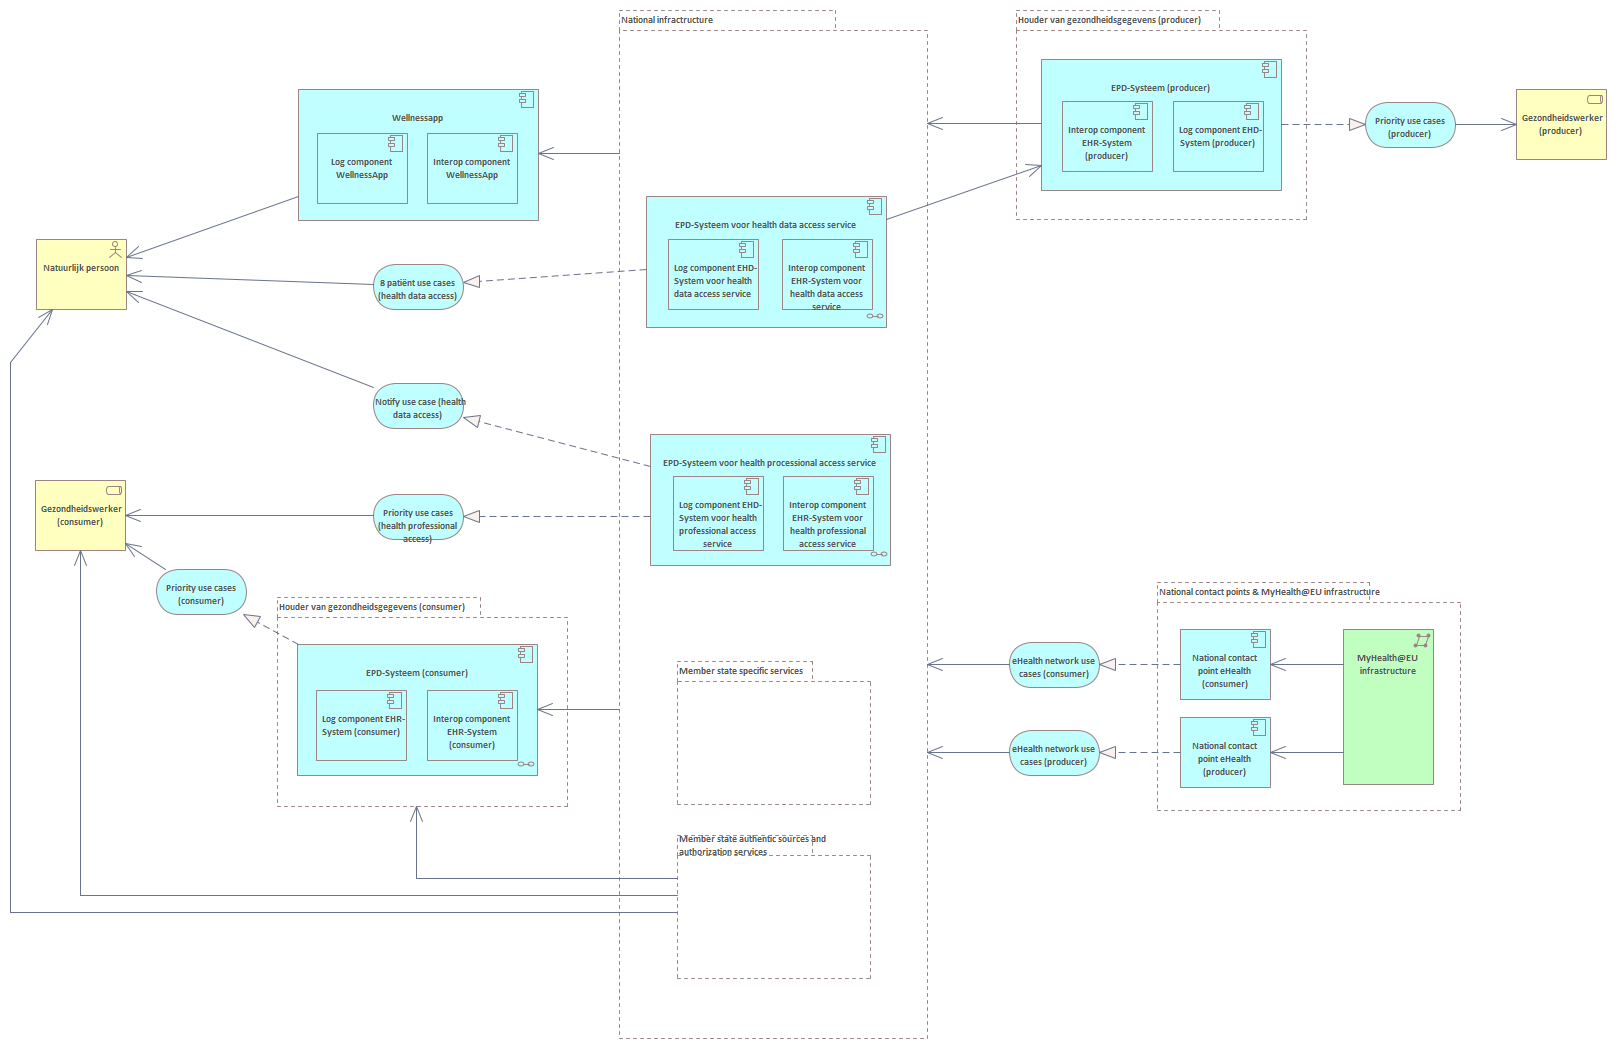
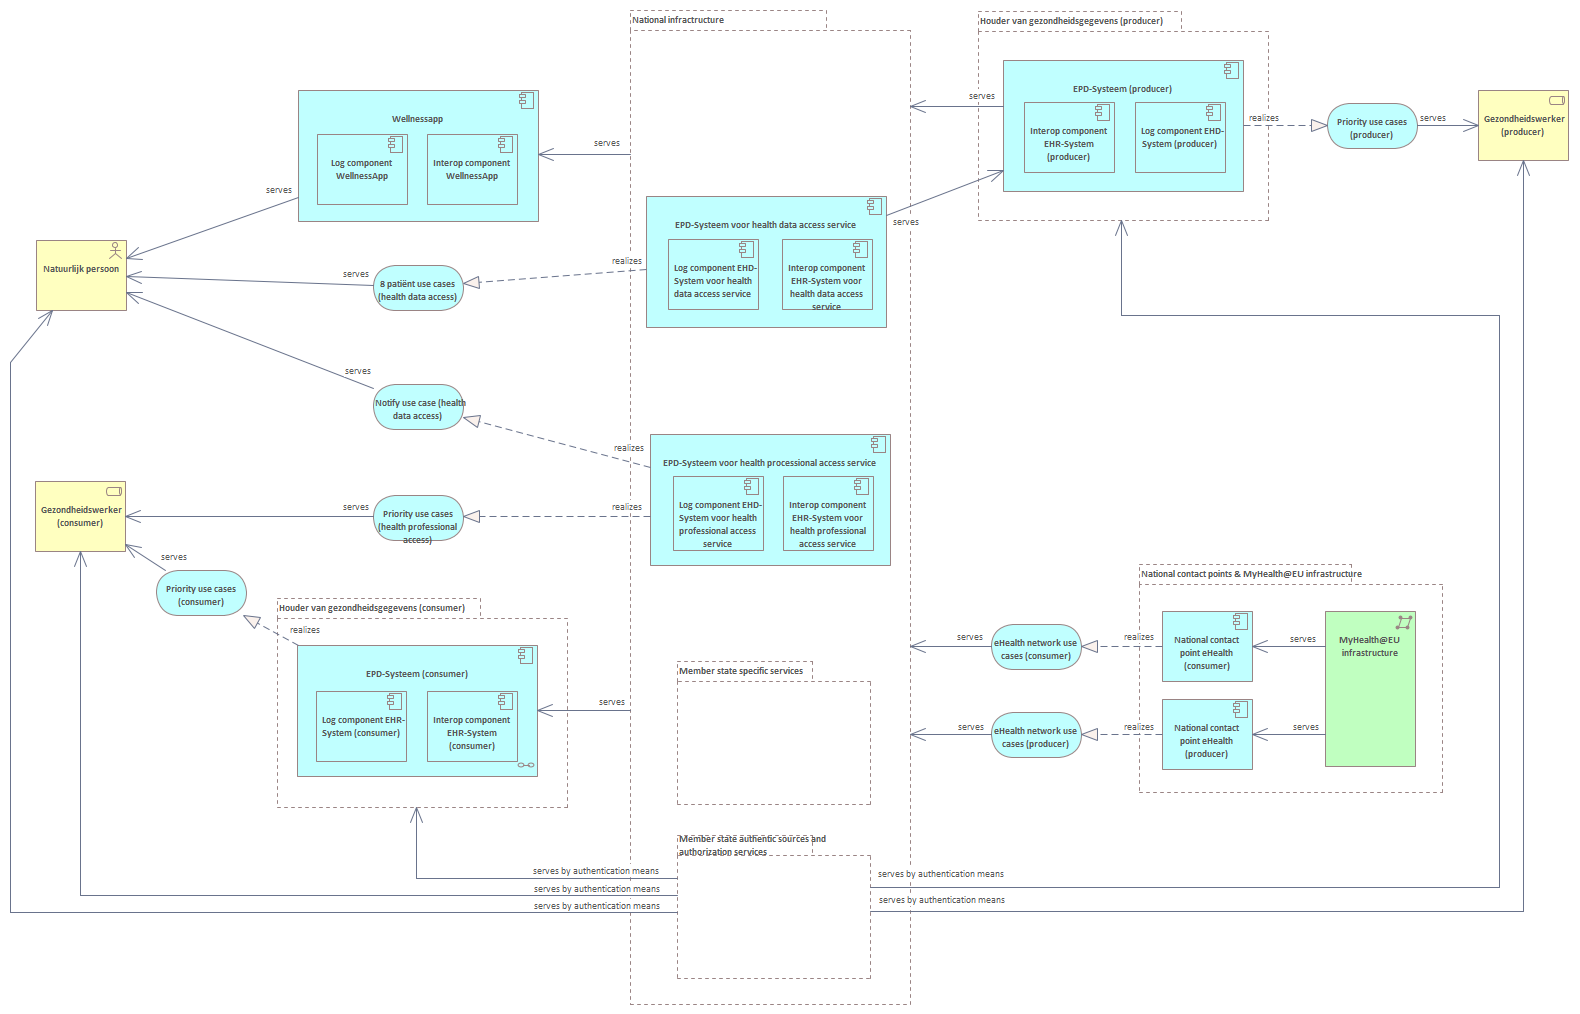
update

diff --git a/docs/EARoot/EA1/EA1.htm b/docs/EARoot/EA1/EA1.htm
@@ -109,40 +109,40 @@
 <img src="EA2.png" usemap="#EA2" border="0" />
 
 <MAP NAME="EA2">
-<area shape="rect" coords="1173,101,1263,171" href="../EA5/EA4/EA1/EA276.htm" target="_self">
-<area shape="rect" coords="1062,101,1152,171" href="../EA5/EA4/EA1/EA281.htm" target="_self">
+<area shape="rect" coords="1135,102,1225,172" href="../EA5/EA4/EA1/EA276.htm" target="_self">
+<area shape="rect" coords="1024,102,1114,172" href="../EA5/EA4/EA1/EA281.htm" target="_self">
 <area shape="rect" coords="782,239,872,309" href="../EA5/EA4/EA1/EA282.htm" target="_self">
 <area shape="rect" coords="668,239,758,309" href="../EA5/EA4/EA1/EA277.htm" target="_self">
 <area shape="rect" coords="783,476,873,550" href="../EA5/EA4/EA1/EA283.htm" target="_self">
 <area shape="rect" coords="673,476,763,550" href="../EA5/EA4/EA1/EA278.htm" target="_self">
-<area shape="rect" coords="427,690,517,760" href="../EA5/EA4/EA1/EA280.htm" target="_self">
-<area shape="rect" coords="316,690,406,760" href="../EA5/EA4/EA1/EA279.htm" target="_self">
-<area shape="rect" coords="427,133,517,203" href="../EA5/EA4/EA1/EA289.htm" target="_self">
-<area shape="rect" coords="317,133,407,203" href="../EA5/EA4/EA1/EA288.htm" target="_self">
-<area shape="rect" coords="646,196,886,327" href="../EA5/EA4/EA1/EA244.htm" target="_self">
-<area shape="rect" coords="650,434,890,565" href="../EA5/EA4/EA1/EA244.htm" target="_self">
-<area shape="rect" coords="1343,629,1433,784" href="../EA5/EA4/EA10/EA356.htm" target="_self">
-<area shape="rect" coords="1180,717,1270,787" href="../EA5/EA4/EA10/EA365.htm" target="_self">
-<area shape="rect" coords="1180,629,1270,699" href="../EA5/EA4/EA10/EA364.htm" target="_self">
-<area shape="rect" coords="1009,730,1099,775" href="../EA5/EA4/EA10/EA355.htm" target="_self">
-<area shape="rect" coords="1009,642,1099,687" href="../EA5/EA4/EA10/EA354.htm" target="_self">
-<area shape="rect" coords="1516,89,1606,159" href="../EA5/EA4/EA3/EA314.htm" target="_self">
-<area shape="rect" coords="1365,102,1455,147" href="../EA5/EA4/EA10/EA361.htm" target="_self">
-<area shape="rect" coords="1041,59,1281,190" href="../EA5/EA4/EA1/EA285.htm" target="_self">
-<area shape="rect" coords="298,89,538,220" href="../EA5/EA4/EA1/EA250.htm" target="_self">
-<area shape="rect" coords="35,480,125,550" href="../EA5/EA4/EA3/EA313.htm" target="_self">
-<area shape="rect" coords="297,644,537,775" href="../EA5/EA4/EA1/EA244.htm" target="_self">
-<area shape="rect" coords="156,569,246,614" href="../EA5/EA4/EA10/EA359.htm" target="_self">
-<area shape="rect" coords="373,494,463,539" href="../EA5/EA4/EA10/EA360.htm" target="_self">
-<area shape="rect" coords="373,383,463,428" href="../EA5/EA4/EA10/EA358.htm" target="_self">
-<area shape="rect" coords="373,264,463,309" href="../EA5/EA4/EA10/EA353.htm" target="_self">
-<area shape="rect" coords="36,239,126,309" href="../EA5/EA4/EA10/EA362.htm" target="_self">
+<area shape="rect" coords="427,691,517,761" href="../EA5/EA4/EA1/EA280.htm" target="_self">
+<area shape="rect" coords="316,691,406,761" href="../EA5/EA4/EA1/EA279.htm" target="_self">
+<area shape="rect" coords="427,134,517,204" href="../EA5/EA4/EA1/EA289.htm" target="_self">
+<area shape="rect" coords="317,134,407,204" href="../EA5/EA4/EA1/EA288.htm" target="_self">
+<area shape="rect" coords="646,196,886,327" href="../EA5/EA4/EA1/EA286.htm" target="_self">
+<area shape="rect" coords="650,434,890,565" href="../EA5/EA4/EA1/EA287.htm" target="_self">
+<area shape="rect" coords="1325,611,1415,766" href="../EA5/EA4/EA10/EA356.htm" target="_self">
+<area shape="rect" coords="1162,699,1252,769" href="../EA5/EA4/EA10/EA365.htm" target="_self">
+<area shape="rect" coords="1162,611,1252,681" href="../EA5/EA4/EA10/EA364.htm" target="_self">
+<area shape="rect" coords="991,712,1081,757" href="../EA5/EA4/EA10/EA355.htm" target="_self">
+<area shape="rect" coords="991,624,1081,669" href="../EA5/EA4/EA10/EA354.htm" target="_self">
+<area shape="rect" coords="1478,90,1568,160" href="../EA5/EA4/EA3/EA314.htm" target="_self">
+<area shape="rect" coords="1327,103,1417,148" href="../EA5/EA4/EA10/EA361.htm" target="_self">
+<area shape="rect" coords="1003,60,1243,191" href="../EA5/EA4/EA1/EA285.htm" target="_self">
+<area shape="rect" coords="298,90,538,221" href="../EA5/EA4/EA1/EA250.htm" target="_self">
+<area shape="rect" coords="35,481,125,551" href="../EA5/EA4/EA3/EA313.htm" target="_self">
+<area shape="rect" coords="297,645,537,776" href="../EA5/EA4/EA1/EA244.htm" target="_self">
+<area shape="rect" coords="156,570,246,615" href="../EA5/EA4/EA10/EA359.htm" target="_self">
+<area shape="rect" coords="373,495,463,540" href="../EA5/EA4/EA10/EA360.htm" target="_self">
+<area shape="rect" coords="373,384,463,429" href="../EA5/EA4/EA10/EA358.htm" target="_self">
+<area shape="rect" coords="373,265,463,310" href="../EA5/EA4/EA10/EA353.htm" target="_self">
+<area shape="rect" coords="36,240,126,310" href="../EA5/EA4/EA10/EA362.htm" target="_self">
 <area shape="rect" coords="677,661,870,804" href="EA7.htm" target="_self">
 <area shape="rect" coords="677,835,870,978" href="EA6.htm" target="_self">
-<area shape="rect" coords="277,597,567,806" href="EA4.htm" target="_self">
-<area shape="rect" coords="619,10,927,1038" href="EA9.htm" target="_self">
-<area shape="rect" coords="1016,10,1306,219" href="EA5.htm" target="_self">
-<area shape="rect" coords="1157,582,1460,810" href="EA8.htm" target="_self">
+<area shape="rect" coords="277,598,567,807" href="EA4.htm" target="_self">
+<area shape="rect" coords="630,10,910,1004" href="EA9.htm" target="_self">
+<area shape="rect" coords="978,11,1268,220" href="EA5.htm" target="_self">
+<area shape="rect" coords="1139,564,1442,792" href="EA8.htm" target="_self">
 </MAP>
  </div>
 	<!-- <div class="ObjectTitle">EHDS : Application Layer diagram</div> -->
@@ -154,7 +154,7 @@
 		</tr>
 		<tr>
 			<td width="15%" class="ObjectDetailsTopic">Modified:</td>
-			<td width="85%" class="ObjectDetailsValue">17-12-2025 09:08:57</td>
+			<td width="85%" class="ObjectDetailsValue">17-12-2025 09:39:17</td>
 		</tr>
 		<tr style="padding-top: 10px;">
 			<td width="15%" class="ObjectDetailsTopic"><button onclick="switchProjectProperties()"><img src="../../images/plus03.gif" align="absmiddle" id="proj" /></button>Project:</td>
@@ -184,7 +184,7 @@
 		</tr>
 		<tr>
 			<td width="15%" class="ObjectDetailsTopic">Aangepast:</td>
-			<td width="85%" class="ObjectDetailsValue">17-12-2025 09:08:57</td>
+			<td width="85%" class="ObjectDetailsValue">17-12-2025 09:39:17</td>
 		</tr>
 		<tr>
 			<td width="15%" class="ObjectDetailsTopic">Versie:</td>

diff --git a/docs/EARoot/EA1/EA5.htm b/docs/EARoot/EA1/EA5.htm
@@ -208,6 +208,7 @@
  -->	<div class="TableGroup" id="TableGroup">
 		<ul class="ItemTitle">
 			<li onClick="toggleItem('AssociationsTo');" id="AssociationsToTitle">Associations To</li>
+			<li onClick="toggleItem('AssociationsFrom');" id="AssociationsFromTitle">Associations From</li>
 			<li onClick="toggleItem('CustomProperties');" id="CustomPropertiesTitle">Advanced</li>
 		</ul>
 		<div class="ItemBody" id="AssociationsToTable">
@@ -230,6 +231,30 @@
 					</td>
 					<td width="25%" class="TableRow" valign="top">
 						<a href="../EA5/EA4/EA1/EA285.htm">«ArchiMate_ApplicationComponent» EPD-Systeem (producer)</a>
+					</td>
+				</tr>
+			</table>
+		</div>
+		<div class="ItemBody" id="AssociationsFromTable">
+			<table class="Table ea_table">
+				<tr>
+					<td width="45%" class="TableHeading">Notities</td>
+					<td width="25%" class="TableHeading">Type relatie</td>
+					<td width="5%" class="TableHeading">Richting</td>
+					<td width="25%" class="TableHeading">Element</td>
+				</tr>
+				<tr>
+					<td width="45%" class="TableRow" valign="top">
+						&nbsp;
+					</td>
+					<td width="25%" class="TableRow" valign="top">
+						«ArchiMate_Serving» 
+					</td>
+					<td width="5%" class="TableRow" valign="top">
+						From
+					</td>
+					<td width="25%" class="TableRow" valign="top">
+						<a href="EA6.htm">«ArchiMate_Grouping» Member state authentic sources and authorization services</a>
 					</td>
 				</tr>
 			</table>

diff --git a/docs/EARoot/EA1/EA6.htm b/docs/EARoot/EA1/EA6.htm
@@ -243,6 +243,19 @@
 						To
 					</td>
 					<td width="25%" class="TableRow" valign="top">
+						<a href="../EA5/EA4/EA3/EA314.htm">«ArchiMate_BusinessRole» Gezondheidswerker (producer)</a>
+					</td>
+				</tr>				<tr>
+					<td width="45%" class="TableRow" valign="top">
+						&nbsp;
+					</td>
+					<td width="25%" class="TableRow" valign="top">
+						«ArchiMate_Serving» 
+					</td>
+					<td width="5%" class="TableRow" valign="top">
+						To
+					</td>
+					<td width="25%" class="TableRow" valign="top">
 						<a href="../EA5/EA4/EA10/EA362.htm">«ArchiMate_BusinessActor» Natuurlijk persoon</a>
 					</td>
 				</tr>				<tr>
@@ -257,6 +270,19 @@
 					</td>
 					<td width="25%" class="TableRow" valign="top">
 						<a href="../EA5/EA4/EA3/EA313.htm">«ArchiMate_BusinessRole» Gezondheidswerker (consumer)</a>
+					</td>
+				</tr>				<tr>
+					<td width="45%" class="TableRow" valign="top">
+						&nbsp;
+					</td>
+					<td width="25%" class="TableRow" valign="top">
+						«ArchiMate_Serving» 
+					</td>
+					<td width="5%" class="TableRow" valign="top">
+						To
+					</td>
+					<td width="25%" class="TableRow" valign="top">
+						<a href="EA5.htm">«ArchiMate_Grouping» Houder van gezondheidsgegevens (producer)</a>
 					</td>
 				</tr>
 			</table>

diff --git a/docs/EARoot/EA5/EA4/EA3/EA314.htm b/docs/EARoot/EA5/EA4/EA3/EA314.htm
@@ -230,6 +230,19 @@
 						From
 					</td>
 					<td width="25%" class="TableRow" valign="top">
+						<a href="../../../EA1/EA6.htm">«ArchiMate_Grouping» Member state authentic sources and authorization services</a>
+					</td>
+				</tr>				<tr>
+					<td width="45%" class="TableRow" valign="top">
+						&nbsp;
+					</td>
+					<td width="25%" class="TableRow" valign="top">
+						«ArchiMate_Serving» 
+					</td>
+					<td width="5%" class="TableRow" valign="top">
+						From
+					</td>
+					<td width="25%" class="TableRow" valign="top">
 						<a href="../EA10/EA361.htm">«ArchiMate_ApplicationService» Priority use cases (producer)</a>
 					</td>
 				</tr>

diff --git a/docs/EARoot/EA5/EA4/EA1/EA244.htm b/docs/EARoot/EA5/EA4/EA1/EA244.htm
@@ -113,8 +113,8 @@
 <img src="EA245.png" usemap="#EA245" border="0" />
 
 <MAP NAME="EA245">
-<area shape="rect" coords="340,190,433,268" href="EA244.htm" target="_self">
-<area shape="rect" coords="230,190,323,268" href="EA244.htm" target="_self">
+<area shape="rect" coords="340,190,433,268" href="EA287.htm" target="_self">
+<area shape="rect" coords="230,190,323,268" href="EA286.htm" target="_self">
 <area shape="rect" coords="120,190,213,268" href="EA285.htm" target="_self">
 <area shape="rect" coords="10,190,103,268" href="EA244.htm" target="_self">
 <area shape="rect" coords="160,10,253,88" href="EA244.htm" target="_self">

diff --git a/docs/EARoot/EA5/EA4/EA1/EA286.htm b/docs/EARoot/EA5/EA4/EA1/EA286.htm
@@ -114,7 +114,7 @@
 		</tr>
 		<tr>
 			<td class="ObjectDetailsTopic">Modified:</td>
-			<td class="ObjectDetailsValue">17-12-2025 08:37:12</td>
+			<td class="ObjectDetailsValue">17-12-2025 09:23:41</td>
 		</tr>
 		<tr style="height: 10px"><td colspan="2"></td></tr>
 		<tr>
@@ -177,7 +177,7 @@
 		</tr>
 		<tr>
 			<td class="ObjectDetailsTopic">Gewijzigd:</td>
-			<td class="ObjectDetailsValue">17-12-2025 08:37:12</td>
+			<td class="ObjectDetailsValue">17-12-2025 09:23:41</td>
 		</tr>
         <tr>
 			<td class="ObjectDetailsTopic">Versie:</td>

diff --git a/docs/EARoot/EA5/EA4/EA1/EA287.htm b/docs/EARoot/EA5/EA4/EA1/EA287.htm
@@ -114,7 +114,7 @@
 		</tr>
 		<tr>
 			<td class="ObjectDetailsTopic">Modified:</td>
-			<td class="ObjectDetailsValue">17-12-2025 08:07:44</td>
+			<td class="ObjectDetailsValue">17-12-2025 09:23:45</td>
 		</tr>
 		<tr style="height: 10px"><td colspan="2"></td></tr>
 		<tr>
@@ -177,7 +177,7 @@
 		</tr>
 		<tr>
 			<td class="ObjectDetailsTopic">Gewijzigd:</td>
-			<td class="ObjectDetailsValue">17-12-2025 08:07:44</td>
+			<td class="ObjectDetailsValue">17-12-2025 09:23:45</td>
 		</tr>
         <tr>
 			<td class="ObjectDetailsTopic">Versie:</td>
